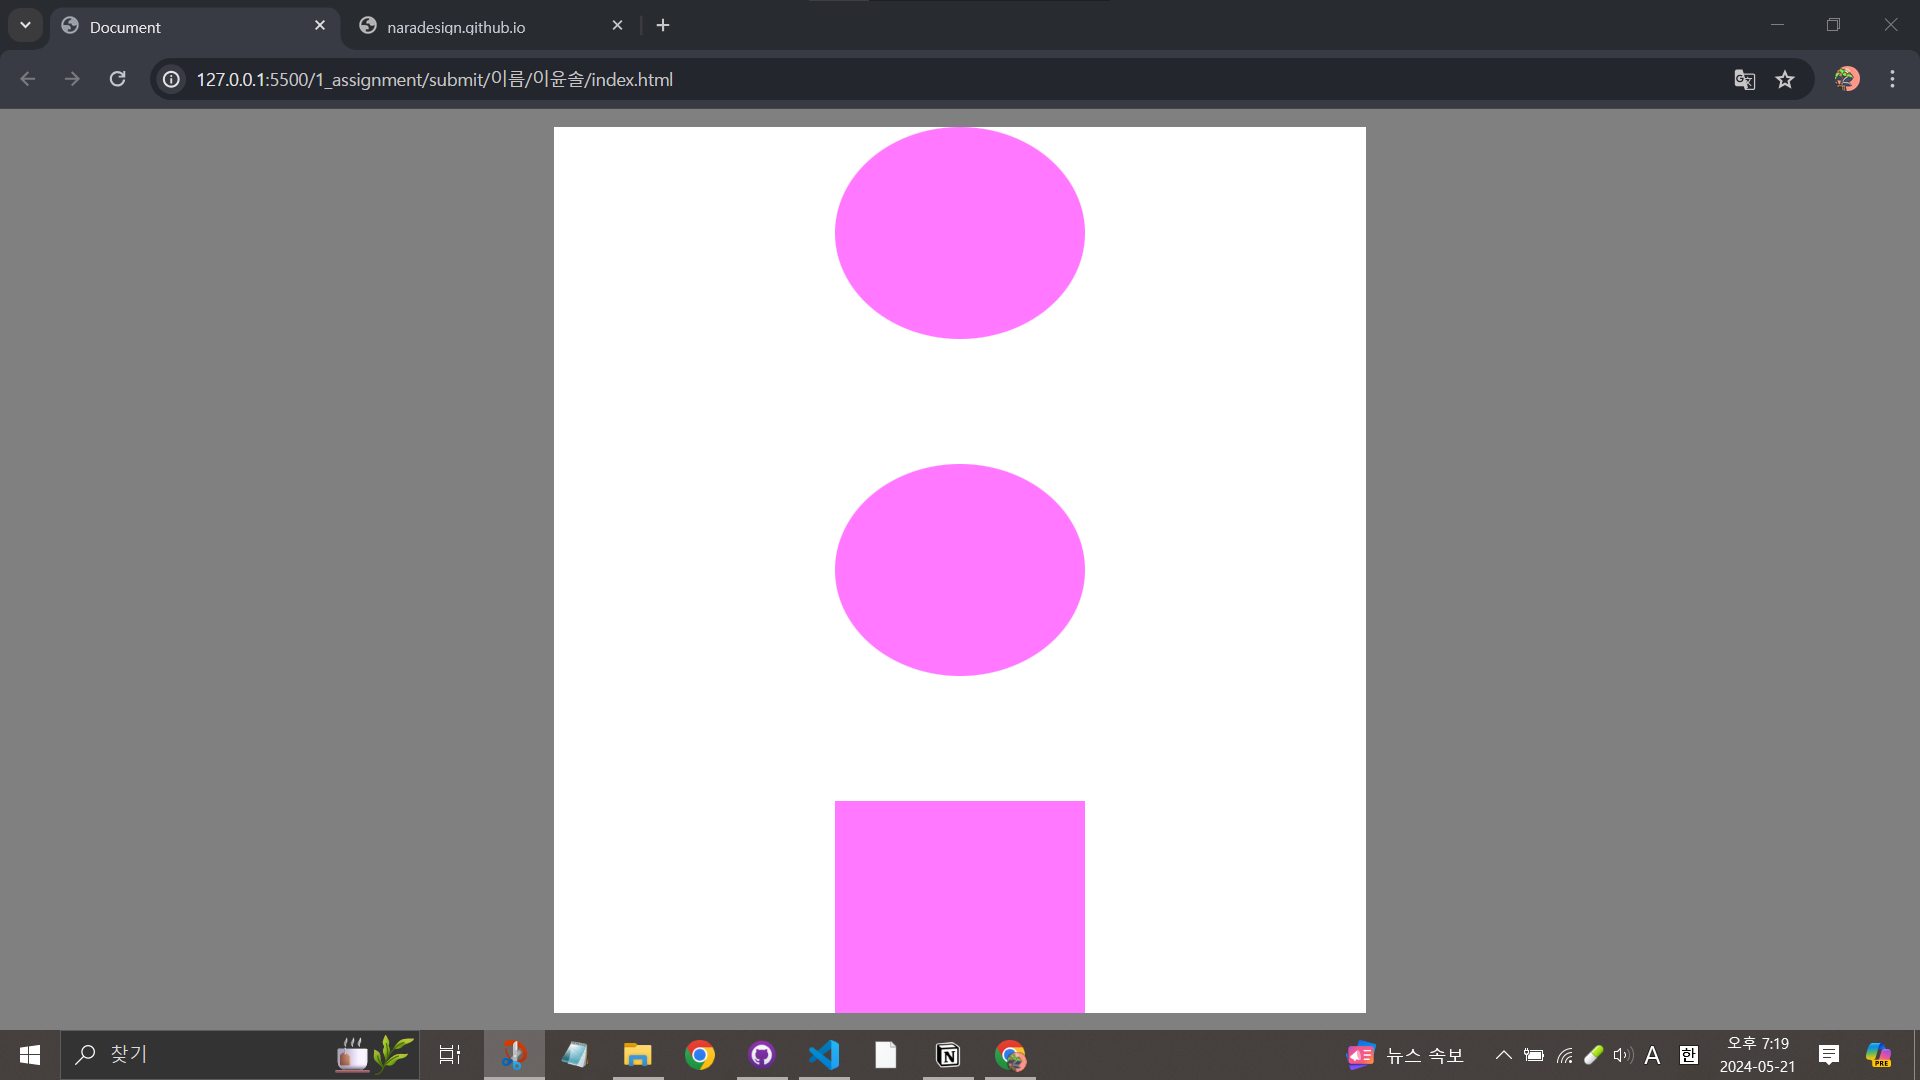
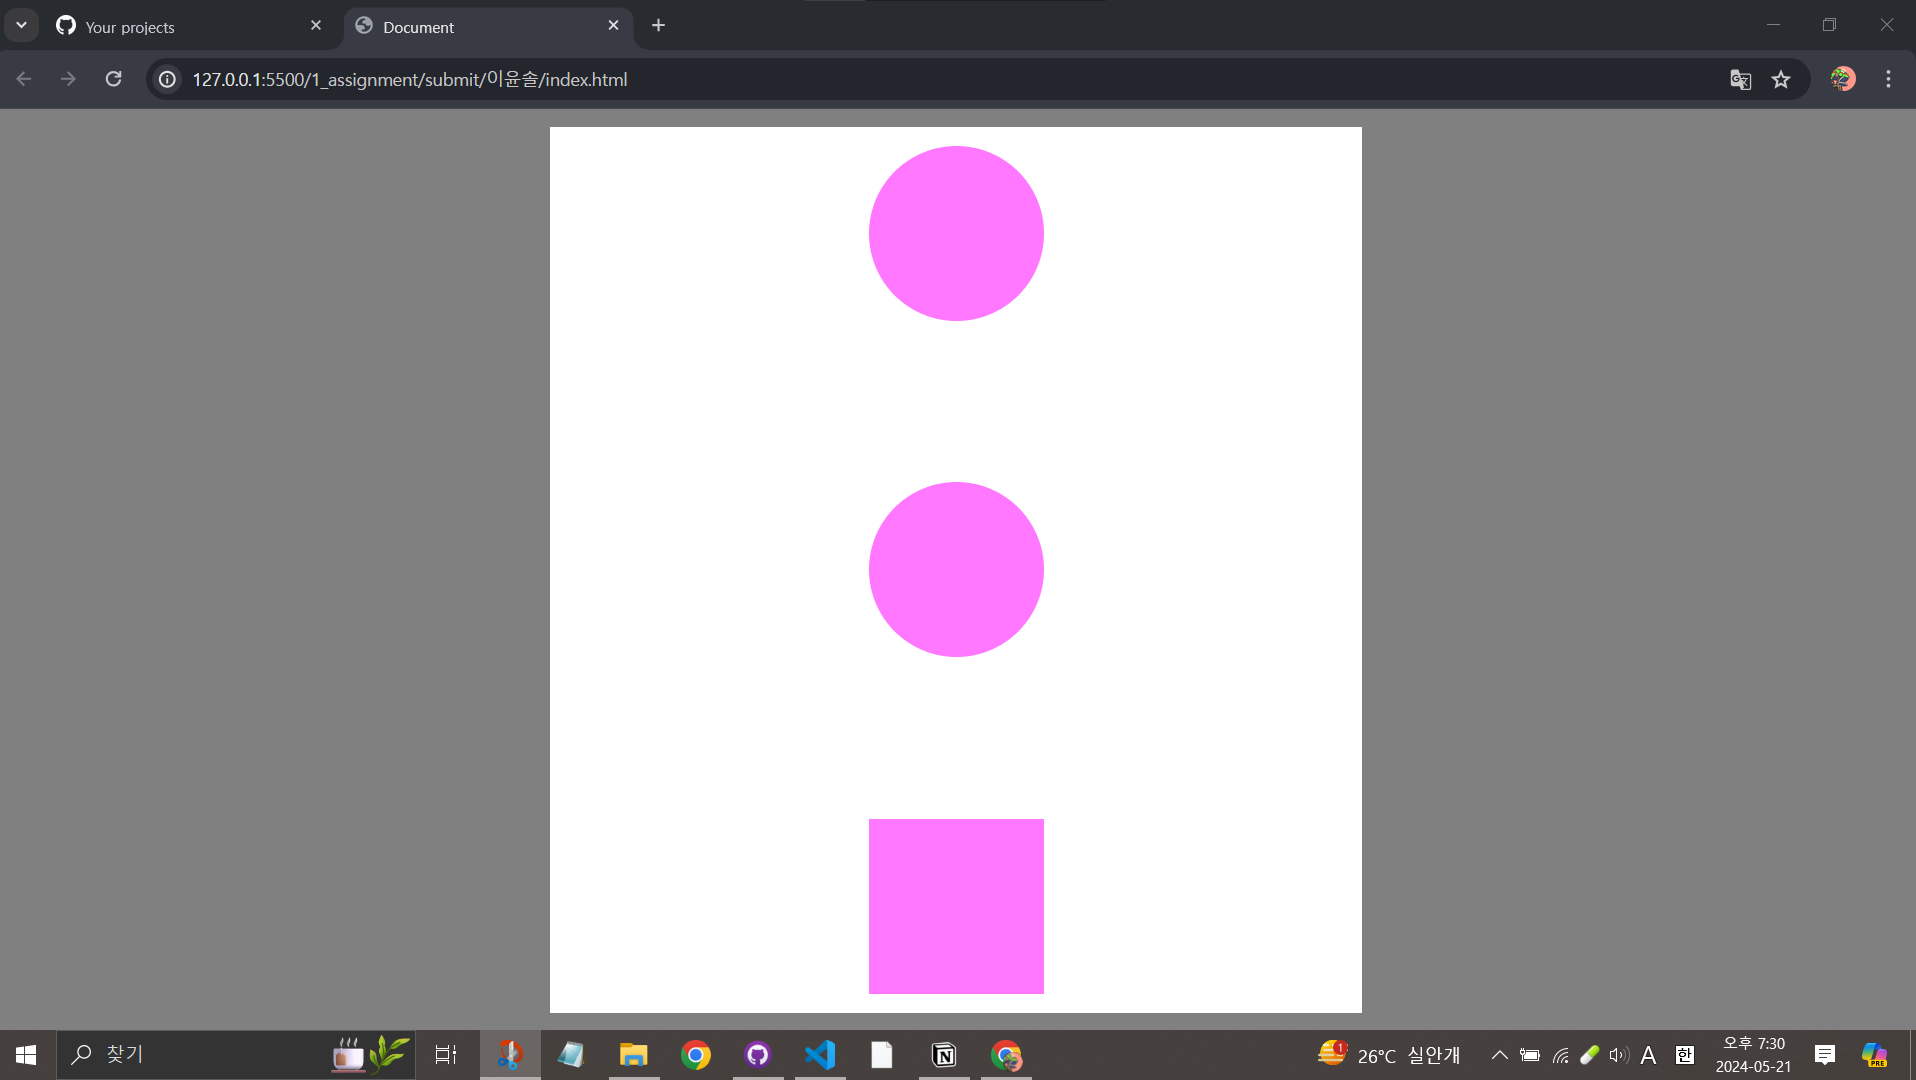
다시

diff --git a/1_assignment/submit/이윤솔/style.css b/1_assignment/submit/이윤솔/style.css
@@ -30,14 +30,14 @@ body {
 
 .circle {
   background: #ff78ff;
-  width: 200px;
-  height: 200px;
+  width: 140px;
+  height: 140px;
 
   border-radius: 100%;
 }
 
 .box {
   background: #ff78ff;
-  width: 200px;
-  height: 200px;
+  width: 140px;
+  height: 140px;
 }
